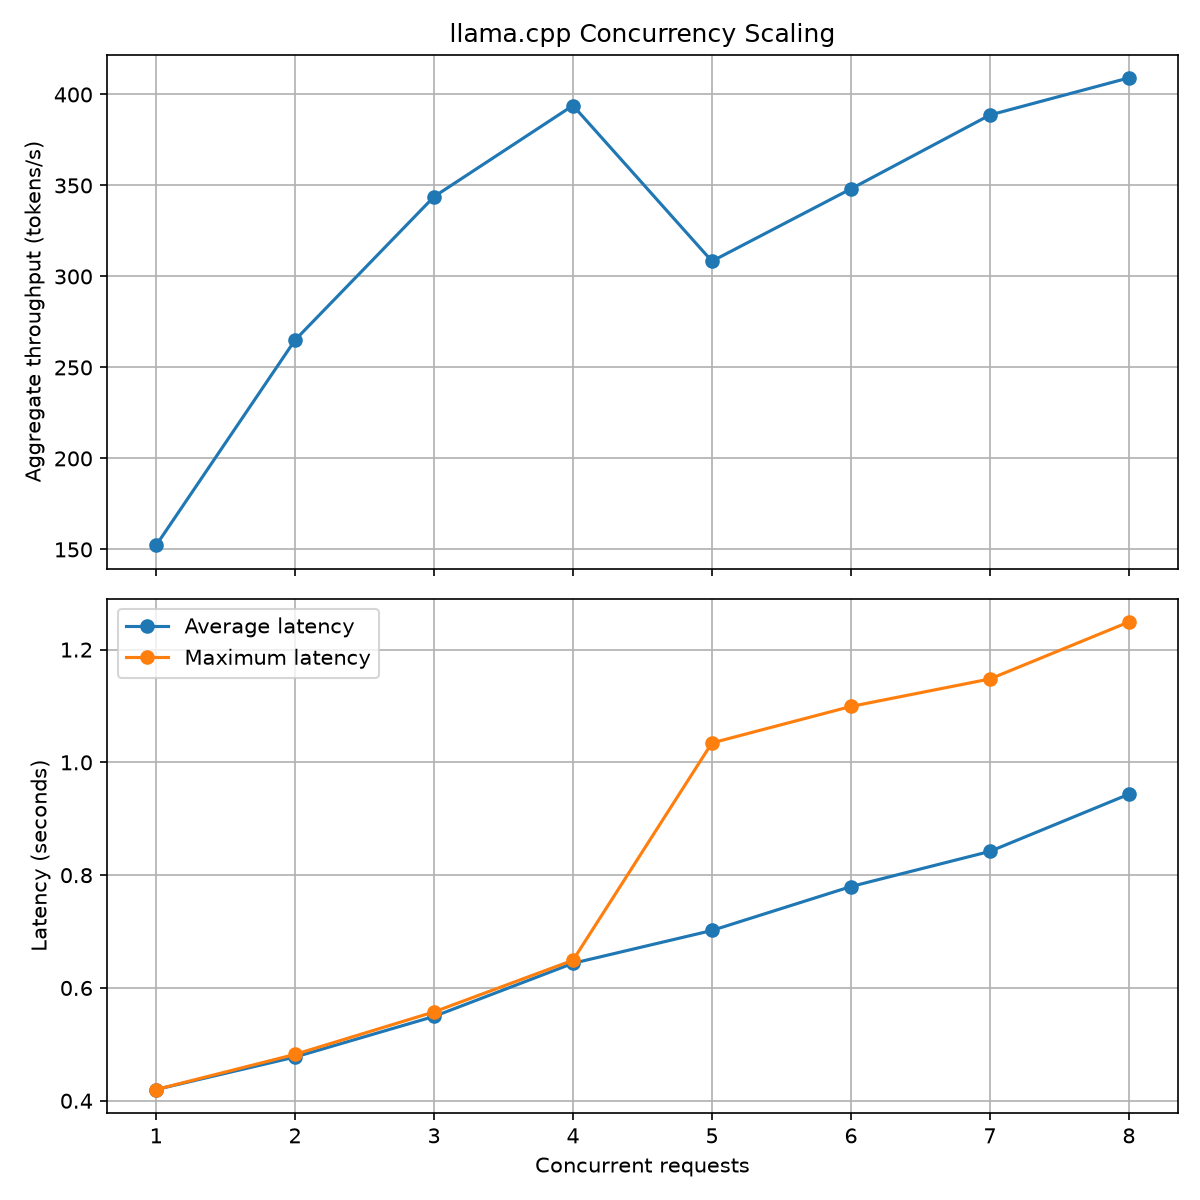
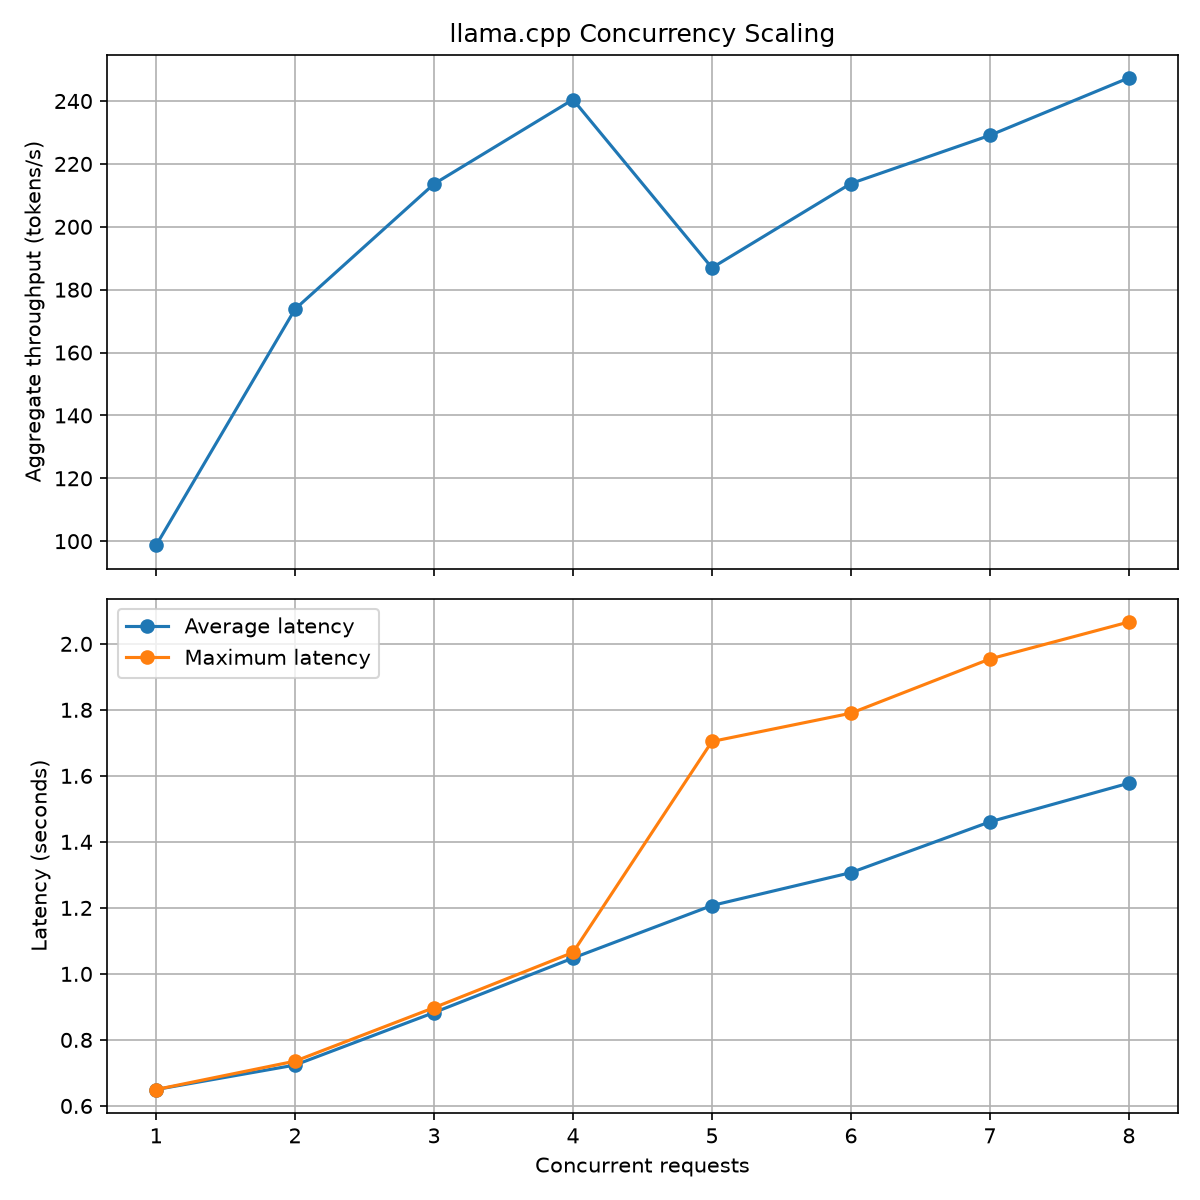
Add streamed TTFT benchmark measurement

diff --git a/benchmarks/benchmark_concurrency.py b/benchmarks/benchmark_concurrency.py
@@ -1,3 +1,4 @@
+import json
 import os
 import time
 from concurrent.futures import ThreadPoolExecutor
@@ -22,11 +23,14 @@ PAYLOAD = {
     "max_tokens": 64,
     "temperature": 0,
     "ignore_eos": True,
+    "cache_prompt": False,
 }
 
 REQUEST_TIMEOUT_SECONDS = 120
 
+
 def run_request():
+    """Send one non-streamed request and return its latency and output metrics."""
     start = time.perf_counter()
 
     response = requests.post(
@@ -52,7 +56,58 @@ def run_request():
     )
 
 
+def run_streaming_request():
+    """Measure user-observed TTFT and total latency for one streamed request."""
+    streaming_payload = PAYLOAD.copy()
+    streaming_payload["stream"] = True
+
+    start = time.perf_counter()
+
+    response = requests.post(
+        LLAMA_SERVER_URL,
+        json=streaming_payload,
+        timeout=REQUEST_TIMEOUT_SECONDS,
+        stream=True,
+    )
+    response.raise_for_status()
+    response.encoding = "utf-8"
+
+    first_token_time = None
+
+    for line in response.iter_lines(decode_unicode=True):
+        if not line:
+            continue
+
+        if not line.startswith("data: "):
+            continue
+
+        event_data = line.removeprefix("data: ")
+        if event_data == "[DONE]":
+            break
+
+        chunk = json.loads(event_data)
+        content = chunk["choices"][0]["delta"].get("content")
+
+        if content:
+            if first_token_time is None:
+                first_token_time = time.perf_counter()
+
+    end = time.perf_counter()
+    if first_token_time is None:
+        raise RuntimeError("Stream ended before any generated content arrived.")
+    time_to_first_token = first_token_time - start
+    total_request_latency = end - start
+    streaming_duration = total_request_latency - time_to_first_token
+
+    return {
+        "time_to_first_token_seconds": time_to_first_token,
+        "total_request_latency_seconds": total_request_latency,
+        "streaming_duration_seconds": streaming_duration,
+    }
+
+
 def run_concurrency_test(concurrency, repetition):
+    """Measure throughput and request latency at one concurrency level."""
     start = time.perf_counter()
     with ThreadPoolExecutor(max_workers=concurrency) as executor:
         futures = [executor.submit(run_request) for _ in range(concurrency)]
@@ -74,9 +129,17 @@ def run_concurrency_test(concurrency, repetition):
         "repetition": repetition,
     }
 
+
 def main():
+    """Run warm ups, streaming measurement and the concurrency benchmark."""
     for _ in range(2):
         run_request()
+
+    streaming_metrics = run_streaming_request()
+    print("Single-request streaming baseline:")
+    for metric, value in streaming_metrics.items():
+        print(f"{metric}: {value:.4f}")
+    print()
 
     repetitions = 5
     benchmark_results = []

diff --git a/test_benchmark_concurrency.py b/test_benchmark_concurrency.py
@@ -1,0 +1,43 @@
+from benchmarks import benchmark_concurrency
+
+
+def test_run_streaming_request_measures_ttft(monkeypatch):
+    stream_lines = [
+        'data: {"choices":[{"delta":{"role":"assistant","content":null}}]}',
+        "",
+        'data: {"choices":[{"delta":{"content":"GPU"}}]}',
+        'data: {"choices":[{"delta":{"content":" inference"}}]}',
+        "data: [DONE]",
+    ]
+
+    class FakeResponse:
+        def raise_for_status(self):
+            pass
+
+        def iter_lines(self, decode_unicode=True):
+            return iter(stream_lines)
+
+    def fake_post(*args, **kwargs):
+        return FakeResponse()
+
+    monkeypatch.setattr(
+        benchmark_concurrency.requests,
+        "post",
+        fake_post,
+    )
+
+    times = iter([10.0, 10.25, 10.75])
+
+    monkeypatch.setattr(
+        benchmark_concurrency.time,
+        "perf_counter",
+        lambda: next(times),
+    )
+
+    result = benchmark_concurrency.run_streaming_request()
+
+    assert result == {
+        "time_to_first_token_seconds": 0.25,
+        "total_request_latency_seconds": 0.75,
+        "streaming_duration_seconds": 0.5,
+    }

diff --git a/README.md b/README.md
@@ -101,7 +101,10 @@ Two controlled memory experiments change one setting at a time:
 
 ![Context-length KV-buffer scaling](benchmarks/context_kv_buffer.png)
 
-The concurrency benchmark sends 64-token requests at concurrency levels 1 through 8, with five repetitions per level. In the recorded run, aggregate throughput scaled cleanly through four concurrent requests. At five requests, maximum latency rose sharply from about 0.65 to 1.03 seconds, revealing a queueing and tail-latency boundary even though throughput increased again at higher concurrency.
+The concurrency benchmark begins with warm-up requests, measures a single streamed request's time to first token (TTFT), the total latency and post-first-token streaming duration, then tests 64-token requests at concurrency levels 1 through 8 with five repetitions per level.
+Prompt caching is disabled so repeated prompts are fully evaluated.
+
+Across recorded runs, throughput scales cleanly through four concurrent requests. Beyond that point, tail latency rises sharply and additional concurrency provides diminishing throughput gains, revealing a practical queueing boundary for the mentioned hardware and configuration.
 
 ![llama.cpp concurrency scaling](benchmarks/concurrency_scaling.png)
 
